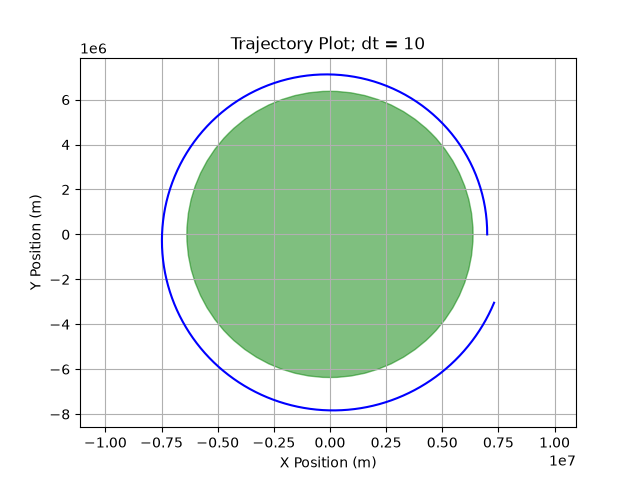
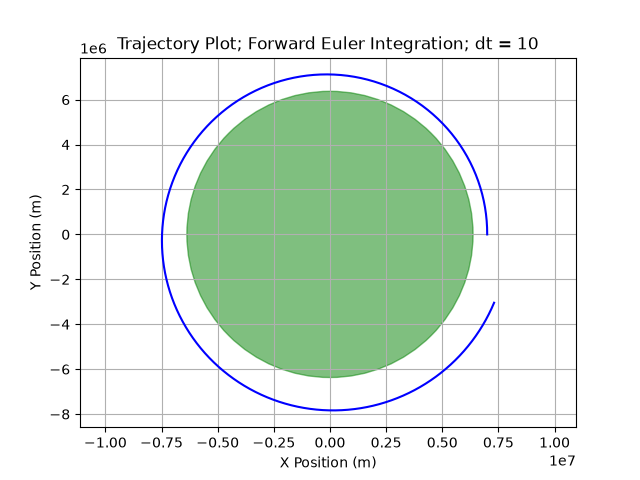
Simulate elliptical orbit

Changed region(s): [[0.1875, 0.0625, 0.8438, 0.125]]

diff --git a/main.py b/main.py
@@ -13,16 +13,16 @@ if __name__ == "__main__":
     vc = sqrt(EARTH_MU / r)  # m/s
     states_forward = simulate(r, 0, 0, vc, dt, 600, forward_euler_step)
     positions_forward = [(x, y) for x, y, vx, vy in states_forward]
-    plot_trajectory(dt, positions_forward)
+    plot_trajectory(dt, positions_forward, "Trajectory Plot; Forward Euler Integration")
 
     # Figure 2: Simulate and plot the trajectory of a satellite in a circular orbit around Earth using semi-implicit Euler integration.
     states_semi_implicit = simulate(r, 0, 0, vc, dt, 600, semi_implicit_euler_step)
     positions_semi_implicit = [(x, y) for x, y, vx, vy in states_semi_implicit]
-    plot_trajectory(dt, positions_semi_implicit)
+    plot_trajectory(dt, positions_semi_implicit, "Trajectory Plot; Semi-Implicit Euler Integration")
 
     # Figure 3: Compare the trajectories of the two integrators.
-    plot_integrator_comparison(dt, positions_forward, positions_semi_implicit, "Forward Euler", "Semi-Implicit Euler")
-    
+    plot_integrator_comparison(dt, positions_forward, positions_semi_implicit, "Forward Euler", "Semi-Implicit Euler", "Integrator Comparison")
+
     # Figure 4: Compare the relative change in specific orbital energy for the two integrators.
     energy_forward = specific_energy_history(states_forward)
     energy_semi_implicit = specific_energy_history(states_semi_implicit)
@@ -42,7 +42,14 @@ if __name__ == "__main__":
     dt_list = [1, 10, 30]
     plot_table_data = []
     for dt in dt_list:
-        d1 = circular_orbit_max_energy_drift(r, t, dt, forward_euler_step)
-        d2 = circular_orbit_max_energy_drift(r, t, dt, semi_implicit_euler_step)
-        plot_table_data.append([f"dt={dt}", f"{d1:.6f}", f"{d2:.6f}"])
+        forward_drift = circular_orbit_max_energy_drift(r, t, dt, forward_euler_step)
+        semi_implicit_drift = circular_orbit_max_energy_drift(r, t, dt, semi_implicit_euler_step)
+        plot_table_data.append([f"dt={dt}", f"{forward_drift:.6f}", f"{semi_implicit_drift:.6f}"])
     plot_table(["Time Step (s)", "Forward Euler Max Energy Drift (%)", "Semi-Implicit Euler Max Energy Drift (%)"], plot_table_data, "Maximum Percentage Energy Drift for Different Time Steps")
+    
+    # Figure 7: Simulate an eliptical orbit and plot the trajectory using semi-implicit Euler integration.
+    r_elliptical = 10000000
+    vc_elliptical = sqrt(EARTH_MU / r_elliptical)
+    states = simulate(r_elliptical, 0, 0, (0.9 * vc_elliptical), 10, 800, semi_implicit_euler_step) 
+    positions = [(x, y) for x, y, vx, vy in states]
+    plot_trajectory(10, positions, "Trajectory Plot; Elliptical Orbit; Semi-Implicit Euler Integration")

diff --git a/plotter.py b/plotter.py
@@ -1,7 +1,7 @@
 import matplotlib.pyplot as plt
 from constants import EARTH_RADIUS
 
-def plot_trajectory(dt, positions):
+def plot_trajectory(dt, positions, title):
     """Plots the trajectory of a satellite based on its positions."""
     
     x_list, y_list = zip(*positions)
@@ -9,14 +9,14 @@ def plot_trajectory(dt, positions):
     ax.plot(x_list, y_list, linestyle='-', color='b')
     earth_circle = plt.Circle((0, 0), EARTH_RADIUS, color='g', alpha=0.5)
     ax.add_artist(earth_circle)
-    plt.title(f'Trajectory Plot; dt = {dt}')
+    plt.title(f'{title}; dt = {dt}')
     plt.xlabel('X Position (m)')
     plt.ylabel('Y Position (m)')
     plt.axis('equal')
     plt.grid()
     plt.show()
     
-def plot_integrator_comparison(dt, positions1, positions2, label1, label2):
+def plot_integrator_comparison(dt, positions1, positions2, label1, label2, title):
     """Plots the trajectories of two satellites for integrator comparison."""
     
     x_list1, y_list1 = zip(*positions1)
@@ -26,7 +26,7 @@ def plot_integrator_comparison(dt, positions1, positions2, label1, label2):
     ax.plot(x_list2, y_list2, linestyle='-', color='r', label=label2)
     earth_circle = plt.Circle((0, 0), EARTH_RADIUS, color='g', alpha=0.5)
     ax.add_artist(earth_circle)
-    plt.title(f'Integrator Comparison; dt = {dt}')
+    plt.title(f'{title}; dt = {dt}')
     plt.xlabel('X Position (m)')
     plt.ylabel('Y Position (m)')
     plt.axis('equal')
